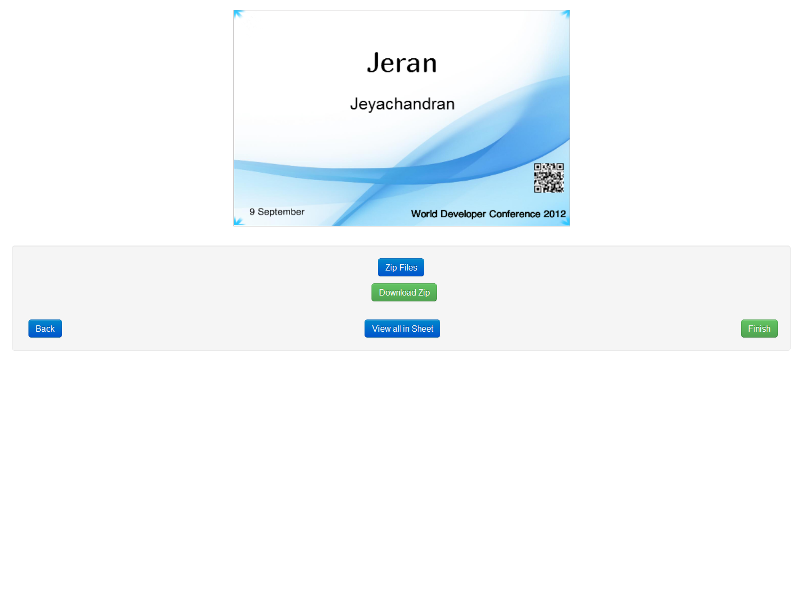
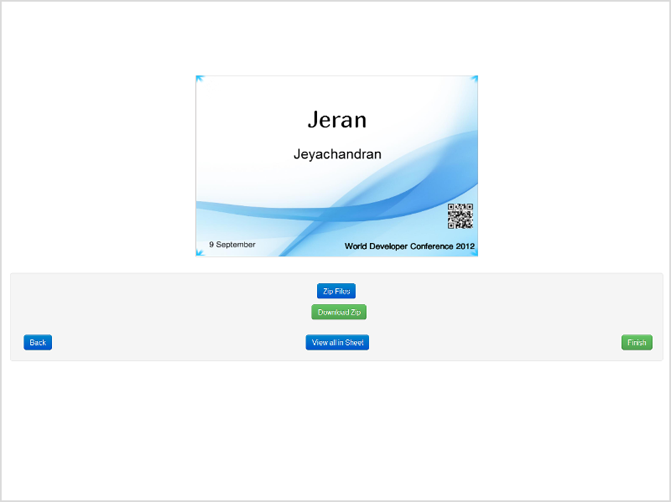
Added footer, readme, license, Reduced Image size,

diff --git a/bootstrap/css/head.css b/bootstrap/css/head.css
@@ -6,7 +6,7 @@
 }
 header { font-family: 'Rancho'; font-size:20px; width:1100px; margin-left:auto; margin-right:auto; padding-top:40px; padding-bottom:20px;}
 #title-large { float:left;font-size:70px; }
-#headerContainer { background-color:whitesmoke; border-bottom:2px solid #E5E5E5; }
+#headerContainer { background-color:whitesmoke; border-bottom:2px solid #E5E5E5; margin-bottom:30px; }
 .clr { clear:both; font-size: 1px; padding:0; margin:0; background:none; }
 body {
 	      margin: 0px;
@@ -15,4 +15,11 @@ body {
 }
 html{
 	height:100%;
+}
+.footer {
+color: gray;
+margin-top: 45px;
+padding: 15px 0 10px;
+background-color:whitesmoke;
+border-top: 1px solid #E5E5E5;
 }

diff --git a/home.html b/home.html
@@ -136,5 +136,13 @@
 			<a href="./start.html" class="btn btn-primary btn-large" style="margin-left:260px; margin-right:auto;">Start</a>
 			
 		</div>
+		</div>
+		<footer class="footer">
+			<div class="container">
+				<p> <a target="_blank" href="http://makkarlabs.in">Makkar Labs</a>, 2012</p>
+				<p> Customized for Google Chrome (Version 13.0+)</p>
+				<p> <a target="_blank" href="https://github.com/makkarlabs/badgeit">Code</a> is Licensed under <a target="_blank" href="http://www.apache.org/licenses/LICENSE-2.0">Apache License v2.0</a>.</p>
+			</div>
+		</footer>
 	</body>
 </html>

diff --git a/create.html b/create.html
@@ -102,4 +102,12 @@
     		<span style="font-family: Rancho;opacity:0">1</span>
     		<span style="font-family: Sail;opacity:0">2</span>
 	</span>
+	
+	<footer class="footer">
+			<div class="container">
+				<p> <a target="_blank" href="http://makkarlabs.in">Makkar Labs</a>, 2012</p>
+				<p> Customized for Google Chrome (Version 13.0+)</p>
+				<p> <a target="_blank" href="https://github.com/makkarlabs/badgeit">Code</a> is Licensed under <a target="_blank" href="http://www.apache.org/licenses/LICENSE-2.0">Apache License v2.0</a>.</p>
+			</div>
+	</footer>
 </body>

diff --git a/start.html b/start.html
@@ -148,5 +148,14 @@ img { max-width:500px;}
 		</div>
 	</div>
 </div>
+
+<footer class="footer">
+	<div class="container">
+		<p> <a target="_blank" href="http://makkarlabs.in">Makkar Labs</a>, 2012</p>
+		<p> Customized for Google Chrome (Version 13.0+)</p>
+		<p> <a target="_blank" href="https://github.com/makkarlabs/badgeit">Code</a> is Licensed under <a target="_blank" href="http://www.apache.org/licenses/LICENSE-2.0">Apache License v2.0</a>.</p>
+	</div>
+</footer>
+		
   </body>
 </html>

diff --git a/faq.html b/faq.html
@@ -97,5 +97,13 @@
 				<hr/>
 			</div>
 		</div>
+		
+		<footer class="footer">
+			<div class="container">
+				<p> <a target="_blank" href="http://makkarlabs.in">Makkar Labs</a>, 2012</p>
+				<p> Customized for Google Chrome (Version 13.0+)</p>
+				<p> <a target="_blank" href="https://github.com/makkarlabs/badgeit">Code</a> is Licensed under <a target="_blank" href="http://www.apache.org/licenses/LICENSE-2.0">Apache License v2.0</a>.</p>
+			</div>
+		</footer>
 	</body>
 </html>
